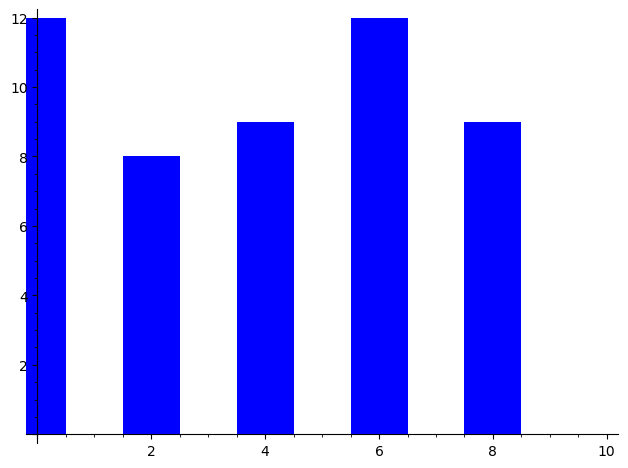
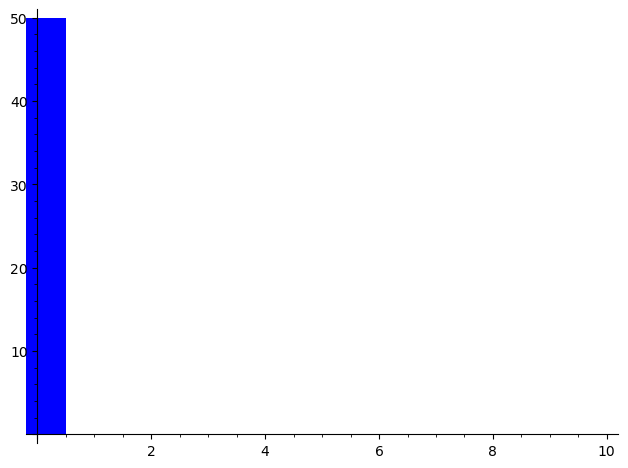
chỉnh lại comment

diff --git a/attack.sage.py b/attack.sage.py
@@ -30,18 +30,19 @@ Zq = IntegerModRing(q)          # Ring Z/qZ
 R = PolynomialRing(Zq, names=('x',)); (x,) = R._first_ngens(1)# Ring đa thức trên Zq: R[x] = Zq[x]
 f = y + _sage_const_1                        # Đa thức f
 n = _sage_const_1                            # Bậc của đa thức f
-N = NumberField(f, names=('a',)); (a,) = N._first_ngens(1)# Trường số được sinh bởi f; N[a] = Q[a] / (f(a))
+N = NumberField(f, names=('a',)); (a,) = N._first_ngens(1)# Trường số được sinh bởi nghiệm của f là a; N = Q(a)
 S = R.quotient(f, names=('z',)); (z,) = S._first_ngens(1)# Ring S[z] = R[z]/(f(z)) = Zq[z] / (f(z)) 
 # => This is P_q
 
 # y,x là các symbol bất kỳ
-# a,z là các symbol nghiệm của f trên N, S!!!!!!!
+# a,z là các symbol nghiệm của f trên N, S  ???
 
-# cm (Canonical Matrix): Chuyển đa thức về dạng Vector trong không gian Minkowski
+# cm (Canonical Matrix) - Ma trận M_alpha
+# Chuyển vector hệ số đa thức về dạng Vector trong không gian Minkowski (đẳng cấu RR^n)
 # Vector_V = cm * Vector_Coefficients
 # cmi: Ma trận nghịch đảo của cm
 # cm - ma trận trên RP, kích thước 1x1 = [0]
-# key - vector định dạng hàng là phần thực/ảo trong ma trận Minkowski
+# key - vector định dạng hàng là phần thực/ảo trong ma trận cm
 cm, key = matrix(RP, _sage_const_1 , _sage_const_1 , [_sage_const_0 ]), []                  
 cmi = None
 cm53 = cm.change_ring(RealField(_sage_const_10 )) # .change_ring - ép kiểu toàn bộ phần tử của cm về RealField(10)
@@ -95,8 +96,7 @@ def setup_params(fval, qval, sval):
 # Also gives a key to which are real embeddings.
 def cmatrix(): # returns a matrix, columns basis 1, x, x^2, x^3, ... given in the canonical embedding
     global N, a
-    # 1. Khởi tạo Trường  N sinh bởi nghiệm 'a' của f(y) = 0
-    # N = Q[x] / (f(x)); f(a) = 0 trong N
+    # 1. Khởi tạo Trường N sinh bởi nghiệm 'a' của f(y) = 0 trên CC
     N = NumberField(f, names=('a',)); (a,) = N._first_ngens(1)
     fdeg = f.degree()
     
@@ -104,7 +104,7 @@ def cmatrix(): # returns a matrix, columns basis 1, x, x^2, x^3, ... given in th
     # 0 = real, 1 = real part of complex emb, 2 = imaginary part
     key = [_sage_const_0  for i in range(fdeg)] 
     
-    # embs: Tập hợp n phép nhúng (embeddings) từ trường đa thức N vào số phức CC
+    # embs: Tập hợp n phép nhúng (embeddings) từ trường số N vào số phức CC
     # [alpha_0, ... , alpha_(n-1)] - tập hợp nghiệm của f trên N; 
     # embs = [embs_0, ....];   embs_i: g(x) --> g(alpha_i)
     # Mỗi phép nhúng tương ứng với việc thay một nghiệm phức của f vào đa thức
@@ -112,7 +112,7 @@ def cmatrix(): # returns a matrix, columns basis 1, x, x^2, x^3, ... given in th
     M = matrix(RP, fdeg, fdeg)
     
     print("Preparing an embedding matrix: computing powers of the root.")
-    # apows: Tính trước các lũy thừa [a^0, a^1, ..., a^(n-1)] => rút gọn bậc => để tăng tốc
+    # apows: Tính trước các lũy thừa [a^0, a^1, ..., a^(n-1)] => rút gọn bậc => để tăng tốc ??
     apows = [a**j for j in range(n)]
     print("Finished computing the powers of the root.")
     
@@ -133,42 +133,40 @@ def cmatrix(): # returns a matrix, columns basis 1, x, x^2, x^3, ... given in th
             i = i + _sage_const_1 
             
         # TRƯỜNG HỢP 2: Nghiệm alpha_i là số phức
-        # Một nghiệm phức luôn đi kèm nghiệm liên hợp. Ta tách thành 2 hàng thực:
+        # Ta tách thành 2 hàng:
         else:
-            key[i] = _sage_const_1       # Đánh dấu hàng phần thực: Real(sigma(a))
-            key[i+_sage_const_1 ] = _sage_const_2     # Đánh dấu hàng phần ảo: Imag(sigma(a))
+            key[i] = _sage_const_1       # Đánh dấu hàng phần thực: Real
+            key[i+_sage_const_1 ] = _sage_const_2     # Đánh dấu hàng phần ảo: Imag
             
             for j in range(n):
                 val = em(apows[j])
-                # Công thức nhúng Minkowski cho cặp nghiệm phức:
                 # M[i]   = Real(val)
-                # M[i+1] = Imag(val) (được tính bằng Real(val * I) để giữ độ chính xác)????
+                # M[i+1] = - Imag(val)
                 M[i, j] = val.real()
                 M[i+_sage_const_1 , j] = (val * I).real() 
             i = i + _sage_const_2 
             
     return M, key
 
-# Make a vector in R^n into a polynomial
-# Chuyển đổi một Vector trong không gian Minkowski (R^n) về dạng Đa thức
-# a_vec: Vector trong R^n
+# Make a vector in RR^n into a polynomial ???
+# Chuyển đổi một Vector trong θ(R) về đa thức
+# a_vec: Vector trong θ(R)
 # matchange: Ma trận nghịch đảo cmi (cm^-1)
 # var: Biến của đa thức (x hoặc z)
 def make_poly(a, matchange, var):
-    # Công thức: Vector_Hệ_Số = M^-1 * Vector_Minkowski
     coeffs = matchange * a #coefficients of the polynomial are given by the change of basis matrix
     pol = _sage_const_0 
     
     for i in range(n):
-        # Làm tròn số thực về số nguyên ZZ để ?????????????????
-        # pol = c_0*var^0 + c_1*var^1 + ... + c_n*var^n
+        # round làm tròn ????????
+        # ZZ ép kiểu số nguyên: 1.0 -> 1
         pol = pol + ZZ(round(coeffs[i])) * var**i 
         # var controls where it will live (what poly ring)
         
     return pol
 
 # Make a polynomial into a vector in Minkowski space
-# Chuyển đổi một đa thức thành vector trong không gian Minkowski (R^n)
+# Chuyển đổi một đa thức thành vector trong θ(R)
 # fval: Đa thức đầu vào
 # matchange: Ma trận nhúng Minkowski (cm)
 def make_vec(fval, matchange):
@@ -176,7 +174,7 @@ def make_vec(fval, matchange):
         coeffs = [_sage_const_0  for i in range(n)]
     else:
         coeffs = [_sage_const_0  for i in range(n)]
-        # lift(fval):                       ????????
+        # lift(fval):    trả về một đa thức cụ thể trong class (vì đang làm việc trong thương)
         # .coefficients(): Trả về danh sách các hệ số [c0, c1, c2, ...]
         colist = lift(fval).coefficients()
         
@@ -186,15 +184,15 @@ def make_vec(fval, matchange):
     return matchange * vector(coeffs)
 
 # Multiplication in Minkowski space via moving to polynomial ring
-# Thực hiện phép nhân hai phần tử trong không gian Minkowski thông qua nhân đa thức
-# u, v: Hai vector trong không gian Minkowski R^n
+# Thực hiện phép nhân hai phần tử trong θ(R) thông qua nhân đa thức
+# u, v: Hai vector trong θ(R)
 # mat: Ma trận nhúng M (cm)
 # matinv: Ma trận nghịch đảo M^-1 (cmi)
 def vecmul_poly(u, v, mat, matinv):
     poly_u = make_poly(u, matinv, z)
     poly_v = make_poly(v, matinv, z)
     
-    # Nhân đa thức trong vành (thực hiện modulo f tự động bởi Sage)
+    # Nhân đa thức trong vành đa thức
     poly_prod = poly_u * poly_v
     return make_vec(poly_prod, mat)
 
@@ -238,7 +236,7 @@ def modq(r, q):
     return t*q
 
 ########## lấy mẫu 
-# Create the sampler on the lattice embedded in R^n
+# Create the sampler on the lattice embedded ( θ(R) ) in RR^n
 def initiate_sampler():
     global sampler
     print("Initiating Sampler.")
@@ -261,23 +259,24 @@ def call_sampler():
     return e
 
 # Create samples using a lattice
-# Tạo các cặp mẫu (a, b) Ring-LWE trong không gian Minkowski
+# Tạo các cặp mẫu (a, b) Ring-LWE trong θ(R_q)
 # latmat: Ma trận nhúng M (cm), latmatinv: Ma trận nghịch đảo M^-1 (cmi)
-# sec: Vector bí mật 's' đã được nhúng vào không gian Minkowski
+# sec: Vector bí mật 's' trong θ(R)
 # qval: Giá trị Modulo q của hệ thống
 # keyval - vector định dạng hàng là phần thực/ảo trong ma trận Minkowski
 def get_sample(latmat, latmatinv, sec, qval, keyval):
-    # 1. Lấy mẫu nhiễu e trong R^n
+    # 1. Lấy mẫu nhiễu e trong θ(R)
     e = call_sampler() 
     
     # 2. Tạo đa thức ngẫu nhiên 'pre_a'
     dim = latmat.dimensions()[_sage_const_0 ]  # lấy số hàng của ma trận; cm[nxn]
     pre_a = random_vec(qval, dim) # create a uniformly randomly in terms of basis in cm  ???????
+    # tạo pre_a trên P_q
     
-    # 3. Chuyển 'pre_a' sang không gian Minkowski, R^n
+    # 3. Chuyển 'pre_a' sang θ(R_q)
     a = latmat * pre_a 
     
-    # 4. Tính b = a * s + e trong không gian Minkowski, R^n
+    # 4. Tính b = a * s + e trong θ(R)
     # Dùng vecmul_poly để nhân trong không gian Minkowski (thông qua nhân đa thức)
     b = vecmul_poly(a, sec, latmat, latmatinv) + e
     
@@ -287,18 +286,18 @@ def get_sample(latmat, latmatinv, sec, qval, keyval):
     # Thực hiện Modulo q đối với từng hệ số vector
     pre_b_red = vector([modq(c, qval) for c in pre_b])
     
-    # 6. Đưa b đã rút gọn quay lại không gian Minkowski, R^n
+    # 6. Đưa b đã rút gọn quay lại θ(R_q)
     b = latmat * pre_b_red
     
     return [a, b]
 
-# taọ secret trên R^n
+# taọ secret trên θ(R_q)
 def create_secret():
     global secret
     secret = cm * random_vec(q, n)
     return True
 
-# tạo danh sách chứa numsampsval mẫu (a, b) Ring-LWE trong không gian Minkowski
+# tạo danh sách chứa numsampsval mẫu (a, b) Ring-LWE trong θ(R_q)
 def create_samples(numsampsval):
     global samps, numsamps
     samps = []
@@ -357,14 +356,14 @@ def secret_mod_q():
 # Check to make sure moving to q preserves product -- the last two lines should be equal
 # Kiểm tra tính đúng đắn của phép đồng cấu (Sanity Check)
 # Xác nhận rằng tính chất nhân của vành được bảo toàn khi chuyển 
-# từ không gian Minkowski R^n về đa thức. Nếu bài kiểm tra này vượt qua, 
+# từ θ(R_q) về đa thức. Nếu bài kiểm tra này vượt qua, 
 # cuộc tấn công dựa trên phép đánh giá đa thức tại 1 mới có thể thực hiện được.
 def sanity_check():
     print("Initiating sanity check...")
     mat = cmi
     
-    # 1. Tạo hai vector trong không gian Minkowski R^n
-    # thông qua hai vector đa thức => chuyển về R^n
+    # 1. Tạo hai vector trong θ(R_q)
+    # thông qua hai vector đa thức trên P_q => chuyển về θ(R_q)
     pvec1 = random_vec(q, n)
     vec1 = cm * pvec1
     pvec2 = random_vec(q, n)
@@ -461,7 +460,7 @@ def alg2(reportrate, quickflag = False):
     b = [ _sage_const_0  for i in range(numsamps)]
     
     print("Moving samples to F_q.")
-    # 1. Chuyển đổi toàn bộ các phân phối từ không gian Minkowski về số nguyên trong Zq
+    # 1. Chuyển đổi toàn bộ các phân phối từ θ(R_q) về số nguyên trong Zq
     for i in range(numsamps):
         sample = samps[i]
         # đối với mỗi phân phối